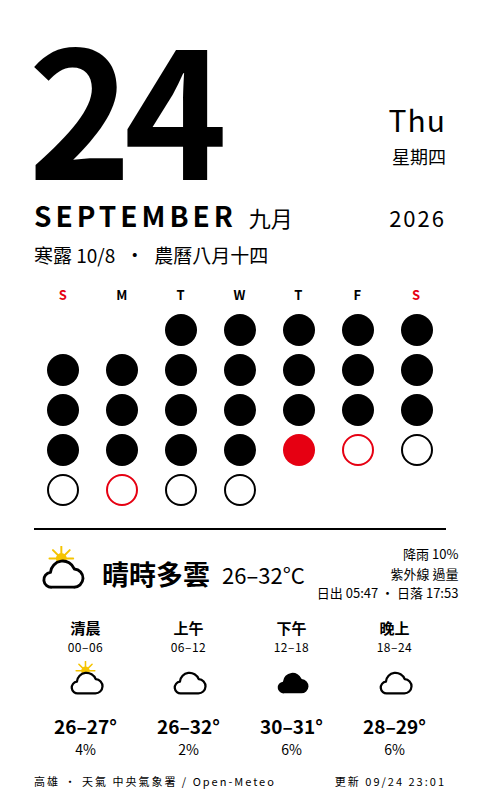
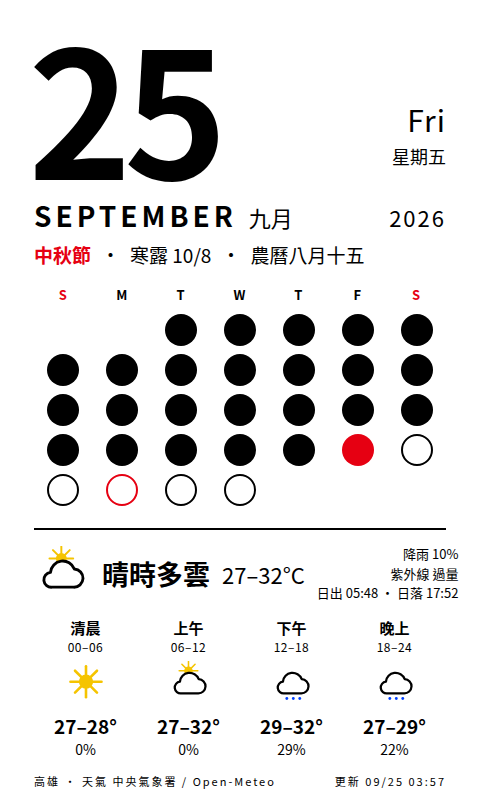
deploy: cf7d1051eb6821bc691ba0ade4beb12cdf9fe0ef

diff --git a/calendar.html b/calendar.html
@@ -47,16 +47,16 @@
 </style></head>
 <body><div class="page">
   <div class="head">
-    <div class="num">24</div>
-    <div class="wd"><div class="en">Thu</div><div class="zh">星期四</div></div>
+    <div class="num">25</div>
+    <div class="wd"><div class="en">Fri</div><div class="zh">星期五</div></div>
   </div>
   <div class="month"><span class="en">SEPTEMBER</span><span class="zh">九月</span><span class="yr">2026</span></div>
-  <div class="today"><span class="lunar">寒露 10/8</span><span>·</span><span class="lunar">農曆八月十四</span></div>
-  <div class="grid"><div class="h we">S</div><div class="h">M</div><div class="h">T</div><div class="h">W</div><div class="h">T</div><div class="h">F</div><div class="h we">S</div><div class="dot empty"></div><div class="dot empty"></div><div class="dot past" title="1"></div><div class="dot past" title="2"></div><div class="dot past" title="3"></div><div class="dot past" title="4"></div><div class="dot past" title="5"></div><div class="dot past" title="6"></div><div class="dot past" title="7"></div><div class="dot past" title="8"></div><div class="dot past" title="9"></div><div class="dot past" title="10"></div><div class="dot past" title="11"></div><div class="dot past" title="12"></div><div class="dot past" title="13"></div><div class="dot past" title="14"></div><div class="dot past" title="15"></div><div class="dot past" title="16"></div><div class="dot past" title="17"></div><div class="dot past" title="18"></div><div class="dot past" title="19"></div><div class="dot past" title="20"></div><div class="dot past" title="21"></div><div class="dot past" title="22"></div><div class="dot past" title="23"></div><div class="dot now" title="24"></div><div class="dot future hol" title="25"></div><div class="dot future" title="26"></div><div class="dot future" title="27"></div><div class="dot future hol" title="28"></div><div class="dot future" title="29"></div><div class="dot future" title="30"></div></div>
+  <div class="today"><span class="hl">中秋節</span><span>·</span><span class="lunar">寒露 10/8</span><span>·</span><span class="lunar">農曆八月十五</span></div>
+  <div class="grid"><div class="h we">S</div><div class="h">M</div><div class="h">T</div><div class="h">W</div><div class="h">T</div><div class="h">F</div><div class="h we">S</div><div class="dot empty"></div><div class="dot empty"></div><div class="dot past" title="1"></div><div class="dot past" title="2"></div><div class="dot past" title="3"></div><div class="dot past" title="4"></div><div class="dot past" title="5"></div><div class="dot past" title="6"></div><div class="dot past" title="7"></div><div class="dot past" title="8"></div><div class="dot past" title="9"></div><div class="dot past" title="10"></div><div class="dot past" title="11"></div><div class="dot past" title="12"></div><div class="dot past" title="13"></div><div class="dot past" title="14"></div><div class="dot past" title="15"></div><div class="dot past" title="16"></div><div class="dot past" title="17"></div><div class="dot past" title="18"></div><div class="dot past" title="19"></div><div class="dot past" title="20"></div><div class="dot past" title="21"></div><div class="dot past" title="22"></div><div class="dot past" title="23"></div><div class="dot past" title="24"></div><div class="dot now" title="25"></div><div class="dot future" title="26"></div><div class="dot future" title="27"></div><div class="dot future hol" title="28"></div><div class="dot future" title="29"></div><div class="dot future" title="30"></div></div>
   <div class="wx"><div class="line">
-    <div class="wxhead"><svg viewBox="0 0 64 68" xmlns="http://www.w3.org/2000/svg"><g transform="translate(12 -4) scale(.6)"><circle cx="32" cy="32" r="11" fill="#f5c400"/><g stroke="#f5c400" stroke-width="4" stroke-linecap="round"><line x1="32" y1="32" x2="32" y2="8" transform="rotate(0 32 32)"/><line x1="32" y1="32" x2="32" y2="8" transform="rotate(45 32 32)"/><line x1="32" y1="32" x2="32" y2="8" transform="rotate(90 32 32)"/><line x1="32" y1="32" x2="32" y2="8" transform="rotate(135 32 32)"/><line x1="32" y1="32" x2="32" y2="8" transform="rotate(180 32 32)"/><line x1="32" y1="32" x2="32" y2="8" transform="rotate(225 32 32)"/><line x1="32" y1="32" x2="32" y2="8" transform="rotate(270 32 32)"/><line x1="32" y1="32" x2="32" y2="8" transform="rotate(315 32 32)"/></g></g><path d="M20 50h26a11 11 0 0 0 1-22 15 15 0 0 0-29 4 9 9 0 0 0 2 18z" fill="#fff" stroke="#000" stroke-width="3.5" stroke-linejoin="round"/></svg><span class="desc">晴時多雲</span><span class="temp">26–32°C</span>
-      <div class="meta">降雨 10%<br>紫外線 過量<br>日出 05:47 · 日落 17:53</div></div>
-    <div class="slots"><div class="slot"><div class="n">清晨</div><div class="hrs">00–06</div><svg viewBox="0 0 64 68" xmlns="http://www.w3.org/2000/svg"><g transform="translate(12 -4) scale(.6)"><circle cx="32" cy="32" r="11" fill="#f5c400"/><g stroke="#f5c400" stroke-width="4" stroke-linecap="round"><line x1="32" y1="32" x2="32" y2="8" transform="rotate(0 32 32)"/><line x1="32" y1="32" x2="32" y2="8" transform="rotate(45 32 32)"/><line x1="32" y1="32" x2="32" y2="8" transform="rotate(90 32 32)"/><line x1="32" y1="32" x2="32" y2="8" transform="rotate(135 32 32)"/><line x1="32" y1="32" x2="32" y2="8" transform="rotate(180 32 32)"/><line x1="32" y1="32" x2="32" y2="8" transform="rotate(225 32 32)"/><line x1="32" y1="32" x2="32" y2="8" transform="rotate(270 32 32)"/><line x1="32" y1="32" x2="32" y2="8" transform="rotate(315 32 32)"/></g></g><path d="M20 50h26a11 11 0 0 0 1-22 15 15 0 0 0-29 4 9 9 0 0 0 2 18z" fill="#fff" stroke="#000" stroke-width="3.5" stroke-linejoin="round"/></svg><div class="t">26–27°</div><div class="p dry">4%</div></div><div class="slot"><div class="n">上午</div><div class="hrs">06–12</div><svg viewBox="0 0 64 68" xmlns="http://www.w3.org/2000/svg"><path d="M20 50h26a11 11 0 0 0 1-22 15 15 0 0 0-29 4 9 9 0 0 0 2 18z" fill="#fff" stroke="#000" stroke-width="3.5" stroke-linejoin="round"/></svg><div class="t">26–32°</div><div class="p dry">2%</div></div><div class="slot"><div class="n">下午</div><div class="hrs">12–18</div><svg viewBox="0 0 64 68" xmlns="http://www.w3.org/2000/svg"><path d="M20 50h26a11 11 0 0 0 1-22 15 15 0 0 0-29 4 9 9 0 0 0 2 18z" fill="#000"/></svg><div class="t">30–31°</div><div class="p dry">6%</div></div><div class="slot"><div class="n">晚上</div><div class="hrs">18–24</div><svg viewBox="0 0 64 68" xmlns="http://www.w3.org/2000/svg"><path d="M20 50h26a11 11 0 0 0 1-22 15 15 0 0 0-29 4 9 9 0 0 0 2 18z" fill="#fff" stroke="#000" stroke-width="3.5" stroke-linejoin="round"/></svg><div class="t">28–29°</div><div class="p dry">6%</div></div></div>
+    <div class="wxhead"><svg viewBox="0 0 64 68" xmlns="http://www.w3.org/2000/svg"><g transform="translate(12 -4) scale(.6)"><circle cx="32" cy="32" r="11" fill="#f5c400"/><g stroke="#f5c400" stroke-width="4" stroke-linecap="round"><line x1="32" y1="32" x2="32" y2="8" transform="rotate(0 32 32)"/><line x1="32" y1="32" x2="32" y2="8" transform="rotate(45 32 32)"/><line x1="32" y1="32" x2="32" y2="8" transform="rotate(90 32 32)"/><line x1="32" y1="32" x2="32" y2="8" transform="rotate(135 32 32)"/><line x1="32" y1="32" x2="32" y2="8" transform="rotate(180 32 32)"/><line x1="32" y1="32" x2="32" y2="8" transform="rotate(225 32 32)"/><line x1="32" y1="32" x2="32" y2="8" transform="rotate(270 32 32)"/><line x1="32" y1="32" x2="32" y2="8" transform="rotate(315 32 32)"/></g></g><path d="M20 50h26a11 11 0 0 0 1-22 15 15 0 0 0-29 4 9 9 0 0 0 2 18z" fill="#fff" stroke="#000" stroke-width="3.5" stroke-linejoin="round"/></svg><span class="desc">晴時多雲</span><span class="temp">27–32°C</span>
+      <div class="meta">降雨 10%<br>紫外線 過量<br>日出 05:48 · 日落 17:52</div></div>
+    <div class="slots"><div class="slot"><div class="n">清晨</div><div class="hrs">00–06</div><svg viewBox="0 0 64 68" xmlns="http://www.w3.org/2000/svg"><circle cx="32" cy="32" r="11" fill="#f5c400"/><g stroke="#f5c400" stroke-width="4" stroke-linecap="round"><line x1="32" y1="32" x2="32" y2="8" transform="rotate(0 32 32)"/><line x1="32" y1="32" x2="32" y2="8" transform="rotate(45 32 32)"/><line x1="32" y1="32" x2="32" y2="8" transform="rotate(90 32 32)"/><line x1="32" y1="32" x2="32" y2="8" transform="rotate(135 32 32)"/><line x1="32" y1="32" x2="32" y2="8" transform="rotate(180 32 32)"/><line x1="32" y1="32" x2="32" y2="8" transform="rotate(225 32 32)"/><line x1="32" y1="32" x2="32" y2="8" transform="rotate(270 32 32)"/><line x1="32" y1="32" x2="32" y2="8" transform="rotate(315 32 32)"/></g></svg><div class="t">27–28°</div><div class="p dry">0%</div></div><div class="slot"><div class="n">上午</div><div class="hrs">06–12</div><svg viewBox="0 0 64 68" xmlns="http://www.w3.org/2000/svg"><g transform="translate(12 -4) scale(.6)"><circle cx="32" cy="32" r="11" fill="#f5c400"/><g stroke="#f5c400" stroke-width="4" stroke-linecap="round"><line x1="32" y1="32" x2="32" y2="8" transform="rotate(0 32 32)"/><line x1="32" y1="32" x2="32" y2="8" transform="rotate(45 32 32)"/><line x1="32" y1="32" x2="32" y2="8" transform="rotate(90 32 32)"/><line x1="32" y1="32" x2="32" y2="8" transform="rotate(135 32 32)"/><line x1="32" y1="32" x2="32" y2="8" transform="rotate(180 32 32)"/><line x1="32" y1="32" x2="32" y2="8" transform="rotate(225 32 32)"/><line x1="32" y1="32" x2="32" y2="8" transform="rotate(270 32 32)"/><line x1="32" y1="32" x2="32" y2="8" transform="rotate(315 32 32)"/></g></g><path d="M20 50h26a11 11 0 0 0 1-22 15 15 0 0 0-29 4 9 9 0 0 0 2 18z" fill="#fff" stroke="#000" stroke-width="3.5" stroke-linejoin="round"/></svg><div class="t">27–32°</div><div class="p dry">0%</div></div><div class="slot"><div class="n">下午</div><div class="hrs">12–18</div><svg viewBox="0 0 64 68" xmlns="http://www.w3.org/2000/svg"><path d="M20 50h26a11 11 0 0 0 1-22 15 15 0 0 0-29 4 9 9 0 0 0 2 18z" fill="#fff" stroke="#000" stroke-width="3.5" stroke-linejoin="round"/><g fill="#0040ff"><circle cx="24" cy="58" r="2.2"/><circle cx="34" cy="58" r="2.2"/><circle cx="44" cy="58" r="2.2"/></g></svg><div class="t">29–32°</div><div class="p dry">29%</div></div><div class="slot"><div class="n">晚上</div><div class="hrs">18–24</div><svg viewBox="0 0 64 68" xmlns="http://www.w3.org/2000/svg"><path d="M20 50h26a11 11 0 0 0 1-22 15 15 0 0 0-29 4 9 9 0 0 0 2 18z" fill="#fff" stroke="#000" stroke-width="3.5" stroke-linejoin="round"/><g fill="#0040ff"><circle cx="24" cy="58" r="2.2"/><circle cx="34" cy="58" r="2.2"/><circle cx="44" cy="58" r="2.2"/></g></svg><div class="t">27–29°</div><div class="p dry">22%</div></div></div>
   </div></div>
-  <div class="foot"><span>高雄 · 天氣 中央氣象署 / Open-Meteo</span><span>更新 09/24 23:01</span></div>
+  <div class="foot"><span>高雄 · 天氣 中央氣象署 / Open-Meteo</span><span>更新 09/25 03:57</span></div>
 </div></body></html>
